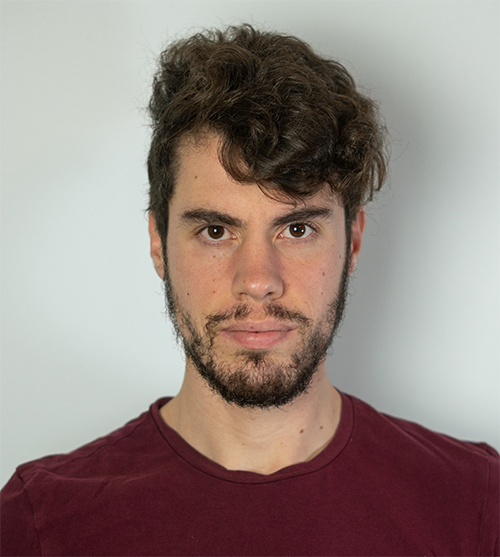
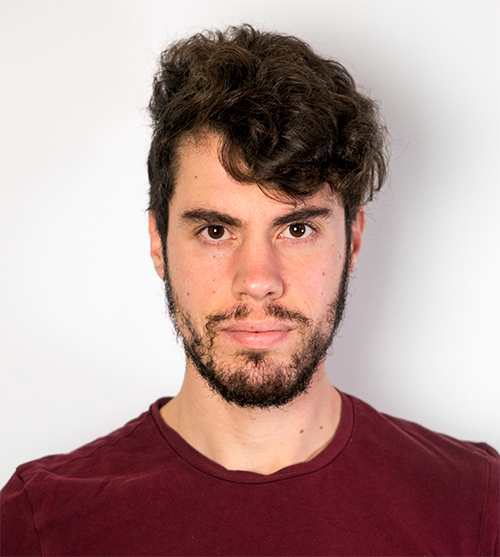
fix: close hamMenu when you click outside of it

diff --git a/src/App.jsx b/src/App.jsx
@@ -1,4 +1,4 @@
-import {useState, useRef} from 'react'
+import {useState, useRef, useEffect} from 'react'
 import './App.css';
 import { BiUser } from "react-icons/bi";
 import { AiOutlineProject, AiOutlineMail } from "react-icons/ai";
@@ -20,6 +20,12 @@ function App() {
   const about = useRef(null);
   const experience = useRef(null);
   const myProjects = useRef(null);
+  const hamMenu = useRef(null);
+
+  // const [value, setValue] = useState(false)
+  const [slideVisible, setSlideVisible] = useState(false)
+  const [sectionValue, setSectionValue] = useState('About');
+  const [isActive, setActive] = useState(false);
 
   const menuList = [
     {
@@ -42,12 +48,7 @@ function App() {
       icon: <AiOutlineMail className='contact'/>
     }
   ]
-
-  // const [value, setValue] = useState(false)
-  const [slideVisible, setSlideVisible] = useState(false)
-  const [sectionValue, setSectionValue] = useState('About');
-  const [isActive, setActive] = useState(false);
-
+ 
   const scrollToSection = (elementRef) => {
     window.scrollTo({
       top: elementRef.current.offsetTop - 40,
@@ -82,33 +83,39 @@ function App() {
     console.log(sectionValue);
     if (item === 'Contact') {
       setSlideVisible(true)
-      setActive(!isActive)
+      // setActive(!isActive)
       
     }
     if (item === 'About') {
       setSlideVisible(false)
-      setActive(!isActive)
+      // setActive(!isActive)
       setSectionValue(item)
     }
     if (item === 'Experiences') {
       setSlideVisible(false)
-      setActive(!isActive)
+      // setActive(!isActive)
       setSectionValue(item)
     }
     if (item === 'My Projects') {
       setSlideVisible(false)
-      setActive(!isActive)
+      // setActive(!isActive)
       setSectionValue(item)
     }
   }
 
+  const appClick = (e) => {
+    if (e.target !== hamMenu.current && e.target.tagName !== hamMenu.current.children[0].tagName) {
+      setActive(false)
+    }
+  }
+
   return (
-    <div className="App">
+    <div onClick={(e) => appClick(e)} className="App">
       <ScrollToTop scrollTop={scrollTop} />
       <Navbar>
         <img onClick={scrollTop} className="Logo" src={Logo} alt="logo"/>
       </Navbar>
-      <HamMenu setActive={setActive} isActive={isActive}>
+      <HamMenu myRef={hamMenu} setActive={setActive} isActive={isActive}>
         <ul className='menu-list'>
           { menuList.map((item, index) => <li onClick={() => {handleOnClickList(item.text); scrollToSection(item.ref)}} key={item.text + index}>{item.icon}{item.text}</li> )}
         </ul>

diff --git a/src/components/HamMenu/HamMenu.jsx b/src/components/HamMenu/HamMenu.jsx
@@ -1,7 +1,6 @@
 import './index.css'
-import {useState} from 'react';
 
-const HamMenu = ({children, setActive, isActive}) => {
+const HamMenu = ({children, setActive, isActive, myRef}) => {
     
     const handleOnClick = () => {
         setActive(!isActive);
@@ -9,7 +8,7 @@ const HamMenu = ({children, setActive, isActive}) => {
 
     return (
         <>
-            <div onClick={handleOnClick} className={!isActive ? 'toggle' : 'toggle active'}>
+            <div ref={myRef} onClick={handleOnClick} className={!isActive ? 'toggle' : 'toggle active'}>
                 <span></span>
                 <span></span>
                 <span></span>

diff --git a/src/components/About/index.css b/src/components/About/index.css
@@ -54,6 +54,12 @@
     height: 167px;
     background-color: #6879a358;
     border-radius: 8px;
+    backdrop-filter: saturate(0.3);
+    transition: opacity .35s;
+}
+
+.overlay__avatar:hover {
+    opacity: 0;
 }
 
 .About__avatar {
@@ -62,8 +68,9 @@
     right: 10px;
     width: 150px;
     border-radius: 8px;
-    filter: saturate(0.4) brightness(1.2);    
+    filter: saturate(0.7)    
 }
+
 
 .About__knowledge {
     display: flex;
